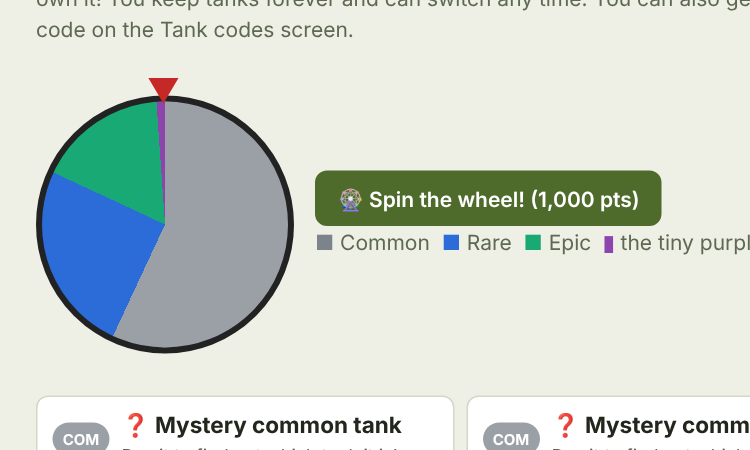
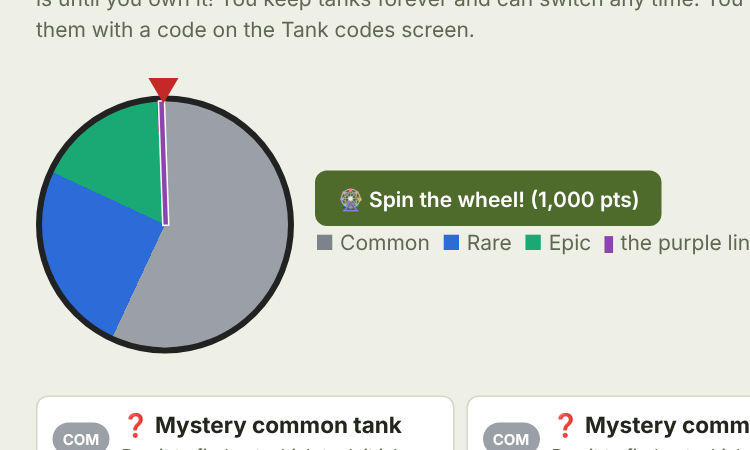
Wheel: one purple Overpowered line
Claude-Session: https://claude.ai/code/session_01QY3CFQugpZtjjJGdUXapHo

diff --git a/index.html b/index.html
@@ -152,7 +152,7 @@ button{touch-action:manipulation}
 .tourbtn:disabled,.shopitem button:disabled{opacity:.45;cursor:not-allowed}
 .cup{width:22px;height:22px;border-radius:50% 50% 40% 40%}
 .tstore .shopitem{flex-wrap:wrap}.tstore .tsrow{display:flex;gap:8px;align-items:center;width:100%}.tstore small{display:block}.tstore .tsstats{font-size:11px;opacity:.85}.tstore .tsown{outline:2px solid #3fbf4f}
-.wheelbox{display:flex;gap:16px;align-items:center;flex-wrap:wrap;margin:6px 0 14px}.wheelwrap{position:relative;width:170px;height:176px;padding-top:6px}.wpoint{position:absolute;top:-8px;left:50%;transform:translateX(-50%);font-size:22px;z-index:2;color:#c62828}.wheel{width:164px;height:164px;border-radius:50%;border:4px solid #222;margin:6px auto 0;transition:transform 4.2s cubic-bezier(.12,.6,.1,1);background:conic-gradient(#9aa0a6 0 205deg,#2b6cd9 205deg 295deg,#19a974 295deg 356deg,#8e44ad 356deg 360deg)}.wside{flex:1;min-width:200px}
+.wheelbox{display:flex;gap:16px;align-items:center;flex-wrap:wrap;margin:6px 0 14px}.wheelwrap{position:relative;width:170px;height:176px;padding-top:6px}.wpoint{position:absolute;top:-8px;left:50%;transform:translateX(-50%);font-size:22px;z-index:2;color:#c62828}.wheel::after{content:'';position:absolute;left:50%;top:0;width:3px;height:50%;margin-left:-1.5px;transform-origin:50% 100%;transform:rotate(358deg);background:#8e44ad;box-shadow:0 0 0 1px #fff}.wheel{position:relative;width:164px;height:164px;border-radius:50%;border:4px solid #222;margin:6px auto 0;transition:transform 4.2s cubic-bezier(.12,.6,.1,1);background:conic-gradient(#9aa0a6 0 205deg,#2b6cd9 205deg 295deg,#19a974 295deg 356deg,#8e44ad 356deg 360deg)}.wside{flex:1;min-width:200px}
 .shop{display:grid;grid-template-columns:repeat(auto-fill,minmax(230px,1fr));gap:8px}
 .shopitem{display:flex;align-items:center;gap:10px;background:var(--panel);border:1.5px solid var(--line);border-radius:8px;padding:8px 10px}
 .si-text{flex:1;min-width:0;display:flex;flex-direction:column}
@@ -399,9 +399,9 @@ button{touch-action:manipulation}
   <p class="note">Buy an ability your tank keeps for the whole battle, for the next few battles. It starts with your next battle. Beat level 301 to unlock Super tank here!</p>
   <div class="shop" id="shop"></div>
   <h2 id="secTankStore">Mystery tank store</h2>
-  <p class="note">Spin the wheel for 1,000 points to win a mystery tank (with a teeny tiny chance of an overpowered one!), or buy one for its price. You don't see which tank it is until you own it! You keep tanks forever and can switch any time. You can also get them with a code on the Tank codes screen.</p>
+  <p class="note">Spin the wheel for 1,000 points to win a mystery tank (with a teeny tiny chance of an overpowered one: the purple line!), or buy one for its price. You don't see which tank it is until you own it! You keep tanks forever and can switch any time. You can also get them with a code on the Tank codes screen.</p>
   <div class="wheelbox"><div class="wheelwrap"><div class="wpoint">▼</div><div class="wheel" id="wheel"></div></div>
-    <div class="wside"><button type="button" class="primary" id="wheelBtn">🎡 Spin the wheel! (1,000 pts)</button><p class="note" id="wheelKey"><b style="color:#7d838a">■</b> Common &nbsp;<b style="color:#2b6cd9">■</b> Rare &nbsp;<b style="color:#19a974">■</b> Epic &nbsp;<b style="color:#8e44ad">▮</b> the tiny purple slice = Overpowered!</p><p class="note" id="wheelMsg" aria-live="polite"></p></div></div>
+    <div class="wside"><button type="button" class="primary" id="wheelBtn">🎡 Spin the wheel! (1,000 pts)</button><p class="note" id="wheelKey"><b style="color:#7d838a">■</b> Common &nbsp;<b style="color:#2b6cd9">■</b> Rare &nbsp;<b style="color:#19a974">■</b> Epic &nbsp;<b style="color:#8e44ad">▮</b> the purple line = all the Overpowered tanks!</p><p class="note" id="wheelMsg" aria-live="polite"></p></div></div>
   <div class="shop tstore" id="tankStore"></div>
 
 </section>
